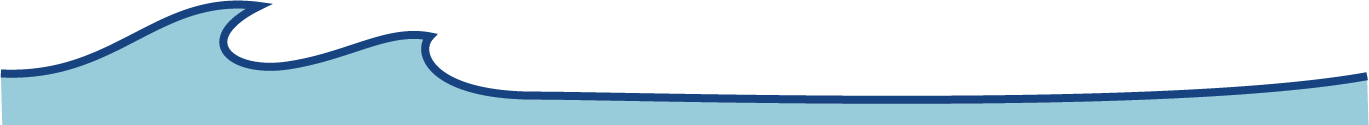
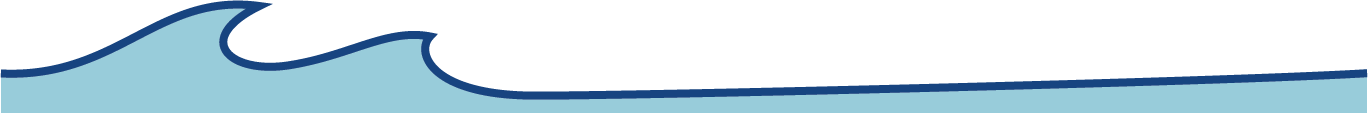
Changed wave to repeat

diff --git a/styles.css b/styles.css
@@ -93,24 +93,34 @@ article img+p {
 }
 
 /*FOOTER*/
-footer p {
+footer {
   position: fixed;
   bottom: 0;
   left: 0;
-  margin: 1em;
-  margin-left: 3em;
   z-index: 3;
+  width: 100%;
+  height: 113px;
+  background-image: url("images/wave.png");
+  /*background-size: cover;*/
+  background-repeat: repeat-x;
 }
 
-footer img {
+footer p {
+  margin: 1em;
+  margin-left: 3em;
+  position: fixed;
+  bottom: 0;
+  left: 0;
+}
+
+/*footer img {
   position: fixed;
   bottom: 0;
   left: 0;
   z-index: 2;
   padding: 0;
   margin: 0;
-}
-
+}*/
 /* TYPE */
 h1 {
   font-family: 'Amatic SC', cursive;

diff --git a/index.html b/index.html
@@ -48,7 +48,6 @@
   </main>
 
   <footer>
-    <img src="images/wave.png" alt="wave" width="1368" height="113">
     <p>
       <a href="mailto:&#101;&#109;&#104;&#101;&#114;&#121;&#064;&#117;&#099;&#100;&#097;&#118;&#105;&#115;&#046;&#101;&#100;&#117;">Email</a>
       &#9679;
